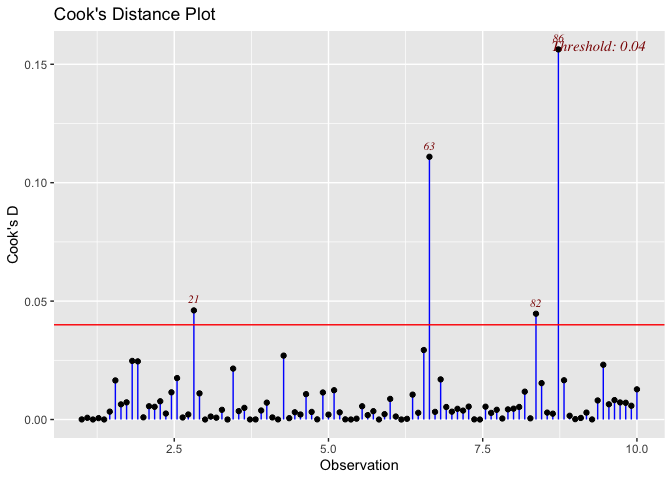
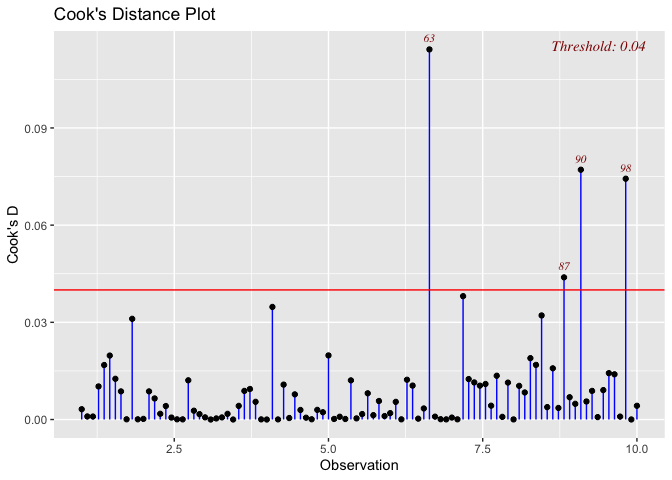
Edited comments, minor changes

diff --git a/README.md b/README.md
@@ -1,19 +1,54 @@
 
 <!-- README.md is generated from README.Rmd. Please edit that file -->
 
+# Disclaimer
+
+This software is part of the DATA501 2024 course taught a Victoria
+University in Wellington, and is intended for educational purposes only.
+
 # OutlierDetection
 
 <!-- badges: start -->
 <!-- badges: end -->
 
-The goal of OutlierDetection is to dected Outliers.
+The goal of `OutlierDetection` is to calculate measure of influence
+which helps to user to detect potential outliers.
 
 ## Installation
 
-You can install the development version of OutlierDetection like so:
+You can install the development version of `OutlierDetection` like so:
 
 ``` r
-devtools::install_github("DavidHuijser/DATA501LSBETA")
+devtools::install_github("DavidHuijser/DATA501OutlierDetection",build_vignettes=TRUE )
+```
+
+Once you successfully installed `OutlierDetection` you can add it to
+your library using the following command:
+
+``` r
+library(OutlierDetection)  
+```
+
+## Manual and Vignette
+
+This allows you to view the general vignette using command
+
+``` r
+browseVignettes("OutlierDetection")
+```
+
+The function available to the user is `InfluenceMeasure` in the next
+section you will see an example, however if you prefer you can find the
+manual using either
+
+``` r
+?InfluenceMeasure
+```
+
+or
+
+``` r
+help(InfluenceMeasure)
 ```
 
 ## Example
@@ -44,34 +79,27 @@ lin_model <- lm(y~x)
 
 
 InfluenceMeasure(lin_model, measure="Cooks", output = "values")
-#>   [1] 4.418277e-05 7.278091e-04 1.787433e-05 5.816767e-04 1.769886e-05
-#>   [6] 3.326570e-03 1.651293e-02 6.406318e-03 7.253444e-03 2.473756e-02
-#>  [11] 2.456270e-02 9.216360e-04 5.619909e-03 5.362858e-03 7.710746e-03
-#>  [16] 2.525634e-03 1.148812e-02 1.750762e-02 8.574972e-04 2.127267e-03
-#>  [21] 4.607909e-02 1.104528e-02 4.118456e-06 1.255924e-03 7.720941e-04
-#>  [26] 4.090730e-03 1.197711e-05 2.150507e-02 3.548644e-03 4.920762e-03
-#>  [31] 1.760103e-05 3.725615e-05 3.813336e-03 7.119177e-03 8.764935e-04
-#>  [36] 3.633827e-05 2.698404e-02 5.703205e-04 3.071187e-03 2.122773e-03
-#>  [41] 1.072649e-02 3.211314e-03 7.581542e-05 1.142450e-02 2.077134e-03
-#>  [46] 1.237943e-02 3.025560e-03 7.850029e-05 1.155956e-05 3.532207e-04
-#>  [51] 5.606294e-03 1.858917e-03 3.516872e-03 8.978185e-06 2.258517e-03
-#>  [56] 8.701172e-03 1.272045e-03 6.563597e-06 2.866111e-04 1.051412e-02
-#>  [61] 2.833921e-03 2.934137e-02 1.109446e-01 3.233989e-03 1.694442e-02
-#>  [66] 5.281194e-03 3.308689e-03 4.523703e-03 3.771269e-03 5.447868e-03
-#>  [71] 6.666068e-05 9.748650e-06 5.415910e-03 2.795839e-03 4.106269e-03
-#>  [76] 4.317659e-04 4.288331e-03 4.584310e-03 5.300513e-03 1.176604e-02
-#>  [81] 5.000447e-04 4.466706e-02 1.536313e-02 2.921118e-03 2.465024e-03
-#>  [86] 1.562737e-01 1.659043e-02 1.584885e-03 1.632001e-04 6.660785e-04
-#>  [91] 2.928062e-03 4.278762e-05 8.049139e-03 2.312175e-02 6.436903e-03
-#>  [96] 8.197298e-03 7.209579e-03 7.062767e-03 5.813075e-03 1.275569e-02
+#>   [1] 3.179252e-03 9.547546e-04 9.262940e-04 1.021569e-02 1.681670e-02
+#>   [6] 1.974302e-02 1.256959e-02 8.692167e-03 6.850795e-05 3.108465e-02
+#>  [11] 7.101899e-05 1.932912e-04 8.694039e-03 6.508028e-03 1.771323e-03
+#>  [16] 4.162743e-03 6.039233e-04 6.262797e-05 4.705956e-05 1.210793e-02
+#>  [21] 2.715134e-03 1.658644e-03 6.713333e-04 4.255099e-06 3.331911e-04
+#>  [26] 6.536974e-04 1.753795e-03 7.529034e-06 4.207884e-03 8.832049e-03
+#>  [31] 9.423194e-03 5.463266e-03 4.376284e-05 2.504083e-06 3.475342e-02
+#>  [36] 3.458355e-05 1.077126e-02 4.588166e-04 7.766397e-03 2.944559e-03
+#>  [41] 5.621955e-04 7.861686e-05 2.975557e-03 2.252082e-03 1.978818e-02
+#>  [46] 1.721643e-04 8.480545e-04 1.649200e-04 1.209063e-02 3.553259e-04
+#>  [51] 1.684268e-03 8.095414e-03 1.340781e-03 5.718519e-03 1.066328e-03
+#>  [56] 1.958581e-03 5.446303e-03 5.853466e-05 1.227604e-02 1.047414e-02
+#>  [61] 2.638137e-04 3.415406e-03 1.142415e-01 8.923028e-04 9.579706e-05
+#>  [66] 4.829317e-05 6.025282e-04 6.019608e-05 3.808342e-02 1.248362e-02
+#>  [71] 1.144427e-02 1.045364e-02 1.096707e-02 4.268291e-03 1.350989e-02
+#>  [76] 8.194702e-04 1.139623e-02 3.378558e-05 1.038728e-02 8.353502e-03
+#>  [81] 1.893716e-02 1.685712e-02 3.212686e-02 3.828278e-03 1.580632e-02
+#>  [86] 3.570584e-03 4.388663e-02 6.882997e-03 4.849481e-03 7.710688e-02
+#>  [91] 5.566716e-03 8.832953e-03 7.510488e-04 9.079458e-03 1.431666e-02
+#>  [96] 1.395778e-02 9.062190e-04 7.432683e-02 1.521469e-05 4.239871e-03
 InfluenceMeasure(lin_model, measure="Cooks", output = "plot")
 ```
 
 <img src="man/figures/README-example-1.png" width="100%" />
-
-<!--
-You'll still need to render `README.Rmd` regularly, to keep `README.md` up-to-date. `devtools::build_readme()` is handy for this.
-&#10;You can also embed plots, for example:
-&#10;<img src="man/figures/README-pressure-1.png" width="100%" />
-&#10;In that case, don't forget to commit and push the resulting figure files, so they display on GitHub and CRAN.
--->
